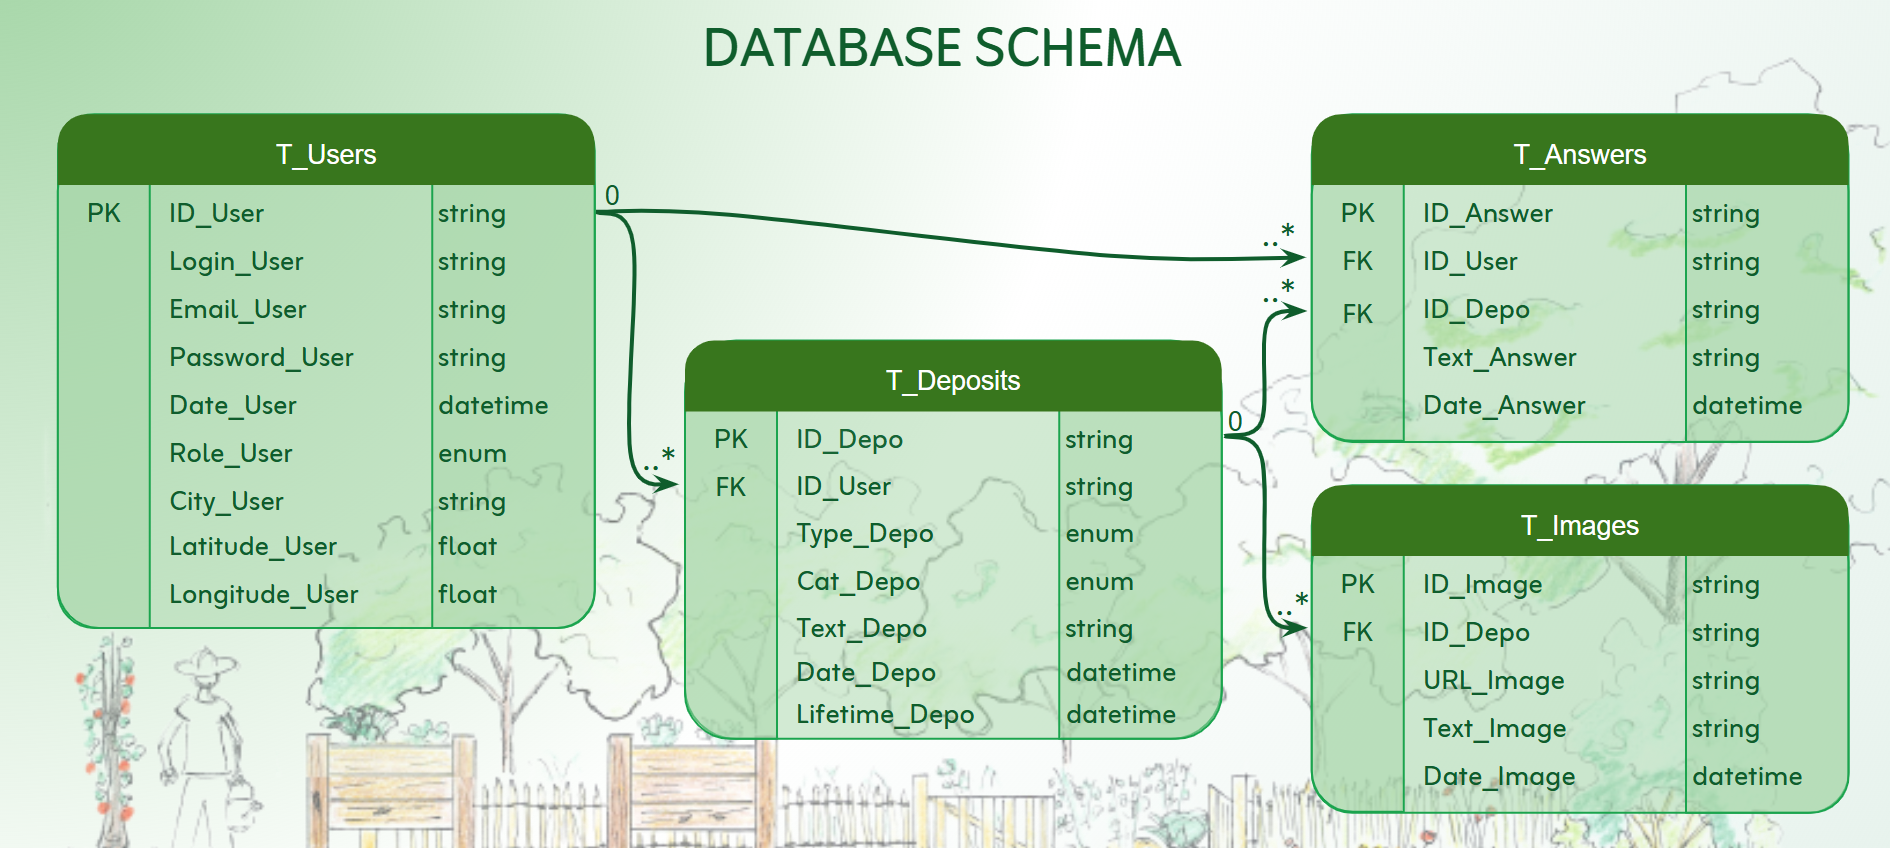
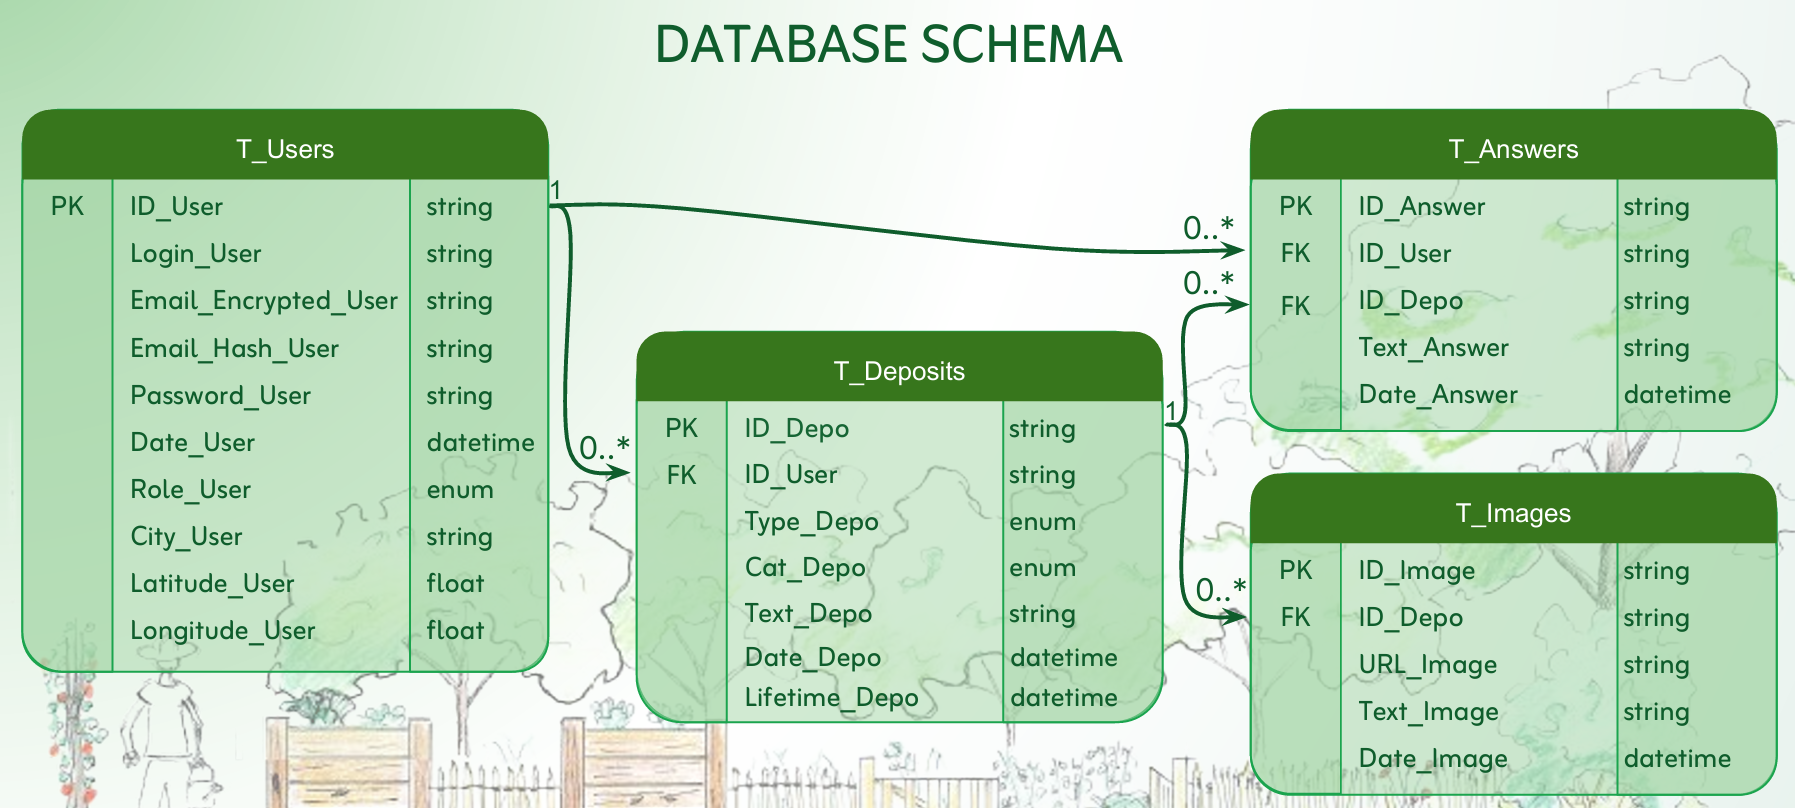
ADD Images on the README

diff --git a/README.md b/README.md
@@ -6,6 +6,7 @@ ShareUp is a web Application created by the Lyonx team, composed of RENAUD Vince
 - [Team Formation Overview](#team-formation-overview)
 - [Ideas Explored](#ideas-explored)
 - [How does the application work ?](#how-does-the-application-work)
+- [Stack Choice](#stack-choice)
 - [System Architecture](#system-architecture)
 - [Database Diagram](#database-diagram)
 - [LOADING COMMANDS](#loading-commands)
@@ -58,17 +59,21 @@ Futher, there is the Forum. On this page, the user can communicate with other us
 
 Finally, the user can see all his infos in the dashboard page. It only appear at the top right of the page when he is connected. In the dashboard, the user can see all his depos easily, edit or delete them.
 
+## Stack Choice
+- [Return at the top](#welcome-on-shareup-application)  
+![Stack Choice](images/Stack.png)
+
 ## System Architecture
-- [Return at the top](#welcome-on-shareup-application)
+- [Return at the top](#welcome-on-shareup-application)  
 ![System Architecture](images/SA_diagram.png)
 
 ## Database Diagram
-- [Return at the top](#welcome-on-shareup-application)
+- [Return at the top](#welcome-on-shareup-application)  
 ![DataBase Diagram](images/BDD.png)
 
 
 ## LOADING COMMANDS
-- [Return at the top](#welcome-on-shareup-application)
+- [Return at the top](#welcome-on-shareup-application)  
 
 - Terminal 1: `~/portfolio/`
 
@@ -389,6 +394,7 @@ Command to run at the root of the application:
 tree -I node_modules
 ```
 
+```
 .
 ├── Dockerfile
 ├── Presentation - Portfolio project Foundations v3.pdf
@@ -612,3 +618,4 @@ tree -I node_modules
 ├── package.json
 └── scripts
     └── dev.js
+```
